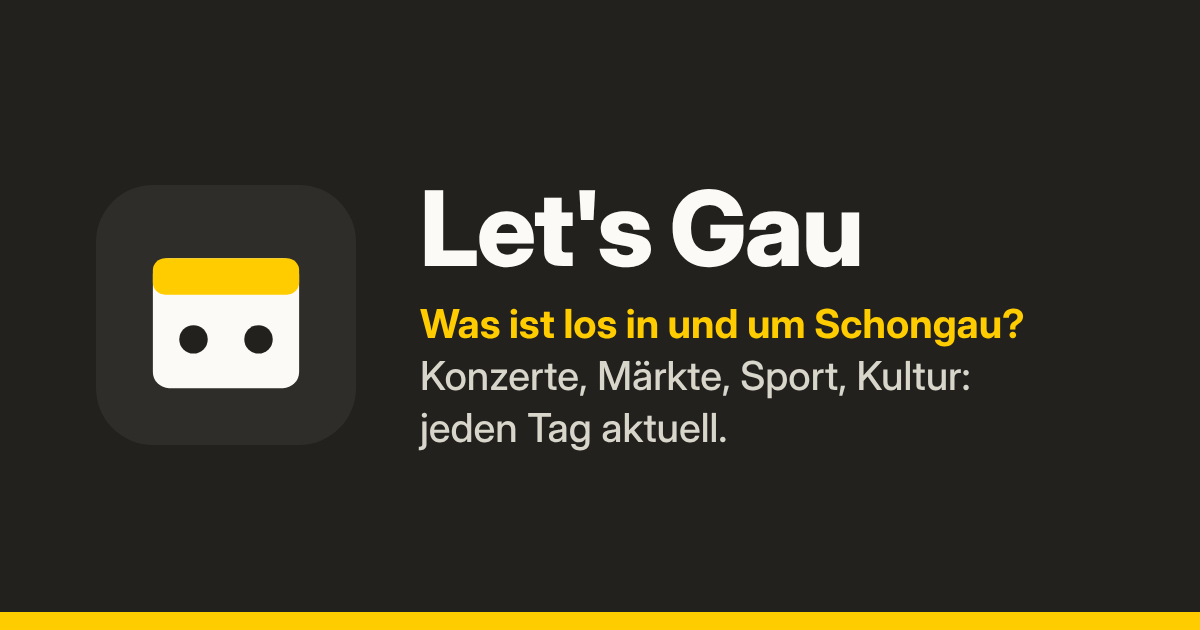
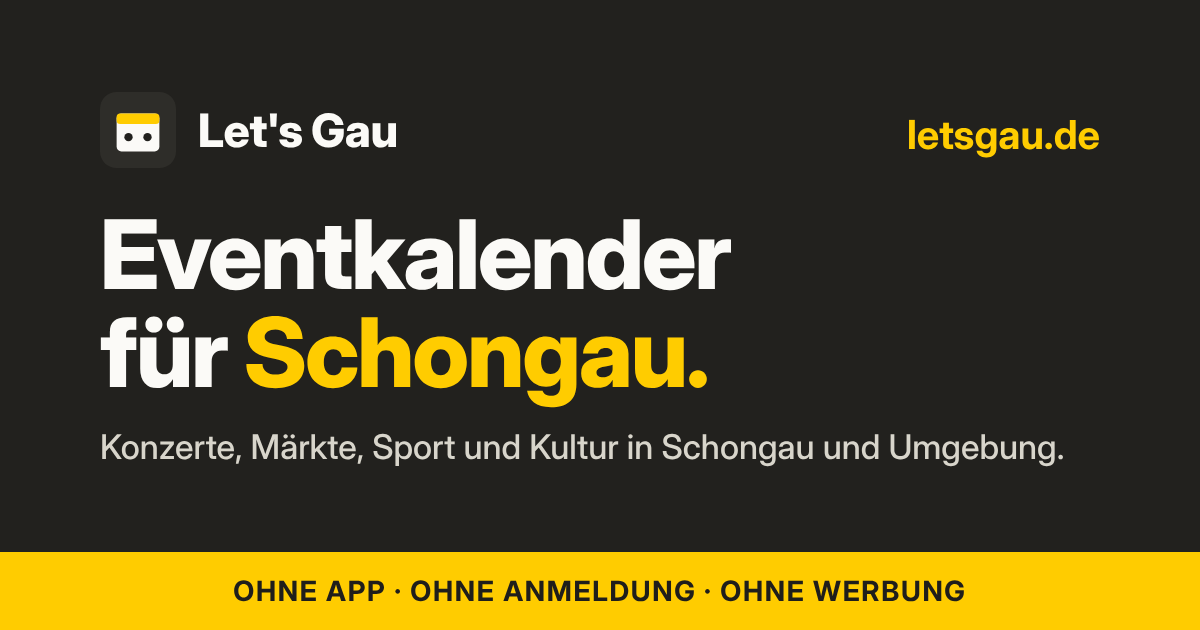
feat(site): link preview matches the printed card
Claude-Session: https://claude.ai/code/session_01MEyfyhhLk3rmTrux6W8k9K

diff --git a/tests/test_build.py b/tests/test_build.py
@@ -278,10 +278,15 @@ def test_metadata_and_links(site: Path) -> None:
     assert 'href="../assets/style.css"' in index
     # no date in the title and the share preview of the start page
     assert "<title>Let&#39;s Gau - Events rund um Schongau</title>" in index
-    assert '<meta property="og:title" content="Was ist los in und um Schongau?">' in index
+    # the share preview of the start page matches the printed card
+    assert '<meta property="og:title" content="Eventkalender für Schongau">' in index
+    assert (
+        '<meta property="og:description" content="Konzerte, Märkte, Sport und Kultur in Schongau '
+        'und Umgebung. Ohne App, ohne Anmeldung, ohne Werbung.">' in index
+    )
     assert '<meta property="og:url" content="https://letsgau.de/de/">' in index
     root = (site / "index.html").read_text(encoding="utf-8")
-    assert '<meta property="og:title" content="Was ist los in und um Schongau?">' in root
+    assert '<meta property="og:title" content="Eventkalender für Schongau">' in root
     assert "2026" not in index.split("</title>")[0] and "November" not in index.split("<body")[0]
     assert "Zuletzt aktualisiert: <time" in html and "13.11. 21:00" in html
 

diff --git a/src/letsgau/build.py b/src/letsgau/build.py
@@ -420,7 +420,7 @@ def render_day(env: Environment, site: Site, lang: str, day: date, *, is_index: 
             "share_url": page_path(lang),
             "title": t("index_title", label=label),
             "page_label": "",
-            "description": t("index_description", places=places),
+            "description": t("index_description", label=label, places=places),
         }
     else:
         meta = {
@@ -705,6 +705,7 @@ def build(
             share_title=t0("index_title", label=config.region.label),
             share_description=t0(
                 "index_description",
+                label=config.region.label,
                 places=join_names(t0, [m.label for m in config.region.municipalities]),
             ),
         ),

diff --git a/CHANGELOG.md b/CHANGELOG.md
@@ -9,6 +9,13 @@ and this project adheres to [Semantic Versioning](https://semver.org/spec/v2.0.0
 
 ### Changed
 
+- Link preview of the start page matches the printed card: title "Eventkalender für
+  Schongau", description "Konzerte, Märkte, Sport und Kultur in Schongau und Umgebung. Ohne
+  App, ohne Anmeldung, ohne Werbung." (`index_title`, `index_description` now take
+  `{label}`), and a new `instance/share.png` in the card's design.
+
+### Changed
+
 - The event row shows where in the place an event is: the venue name before the place
   ("Marienplatz, Schongau"), or the venue name alone if it already contains the place
   ("Löwenhof Schongau"). A long venue name is cut, the place stays. The details show the
